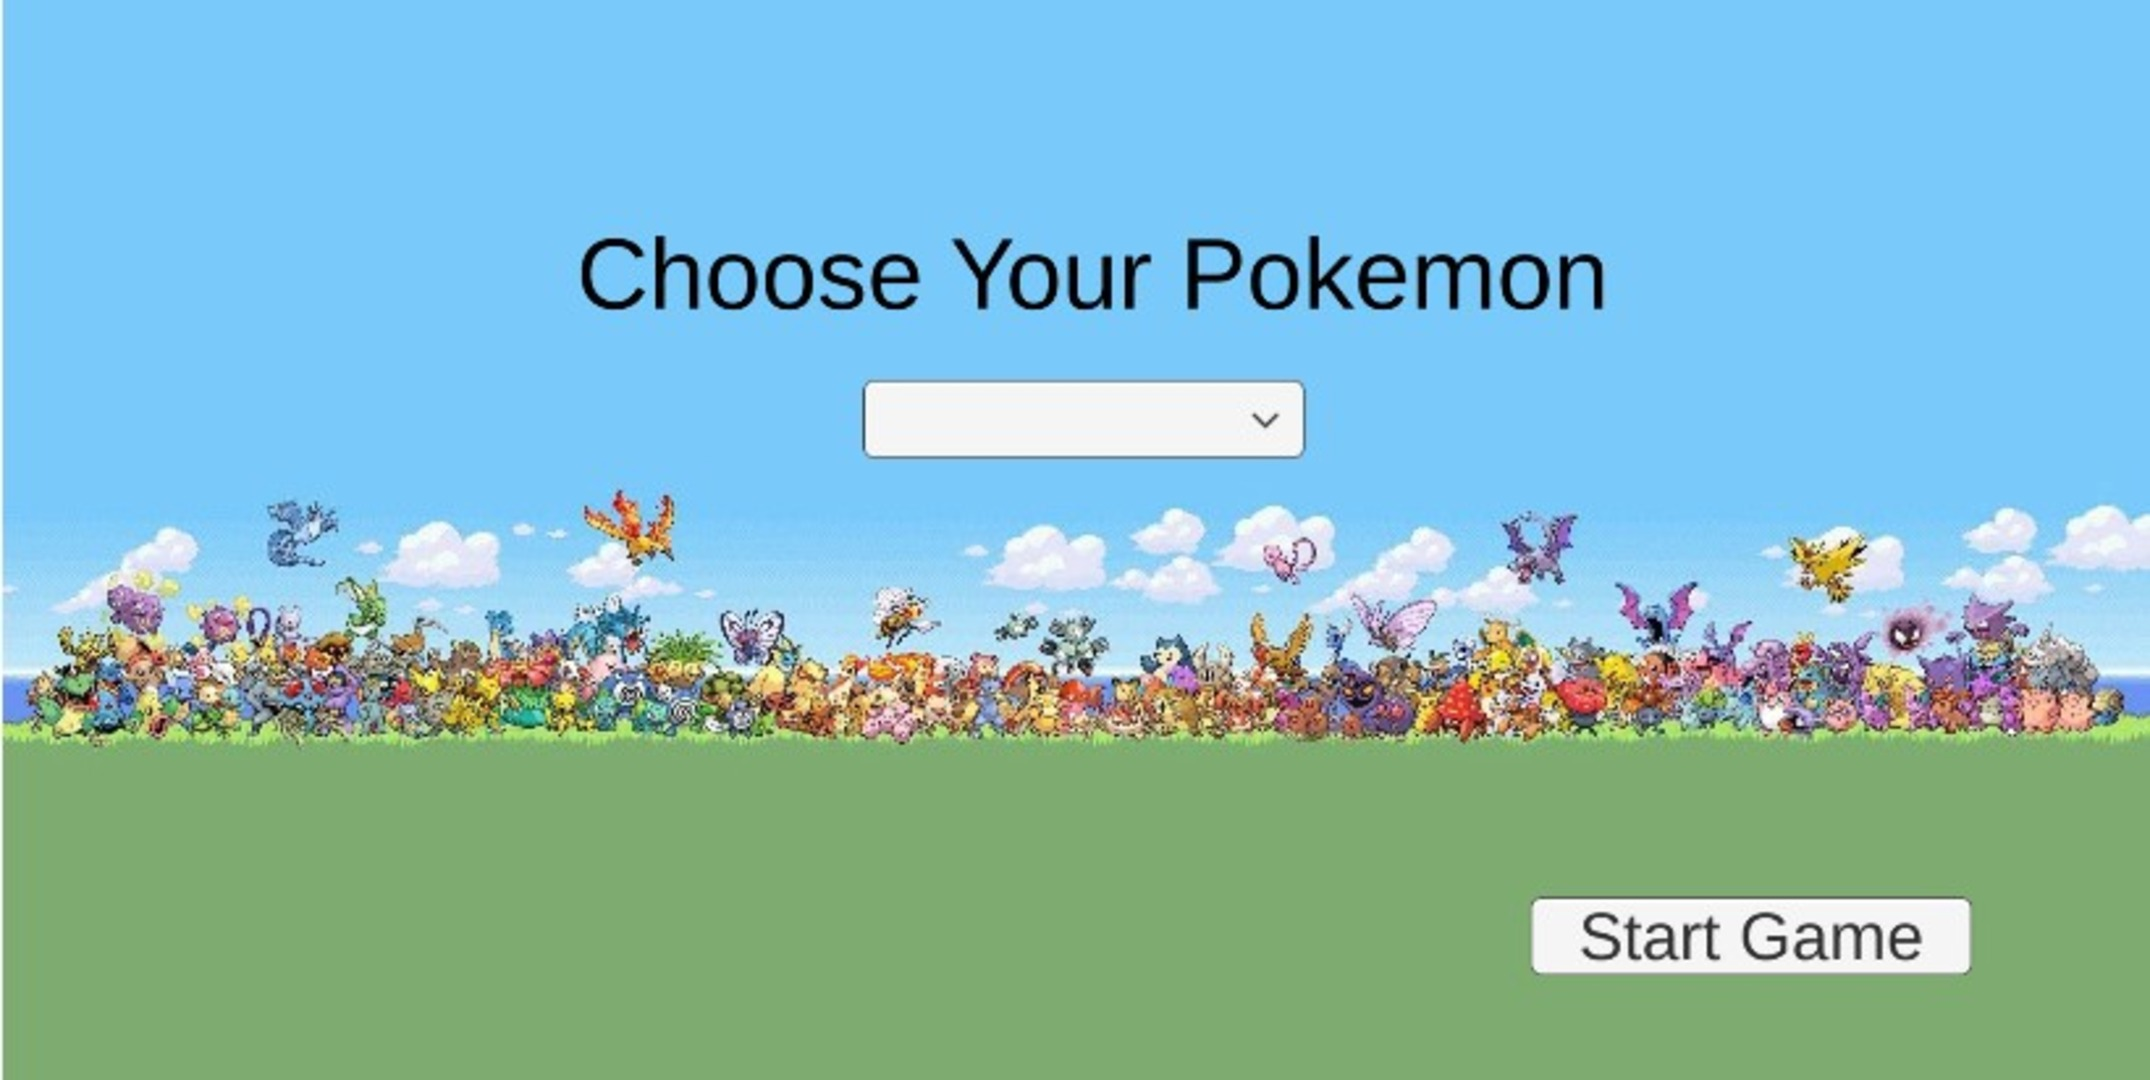
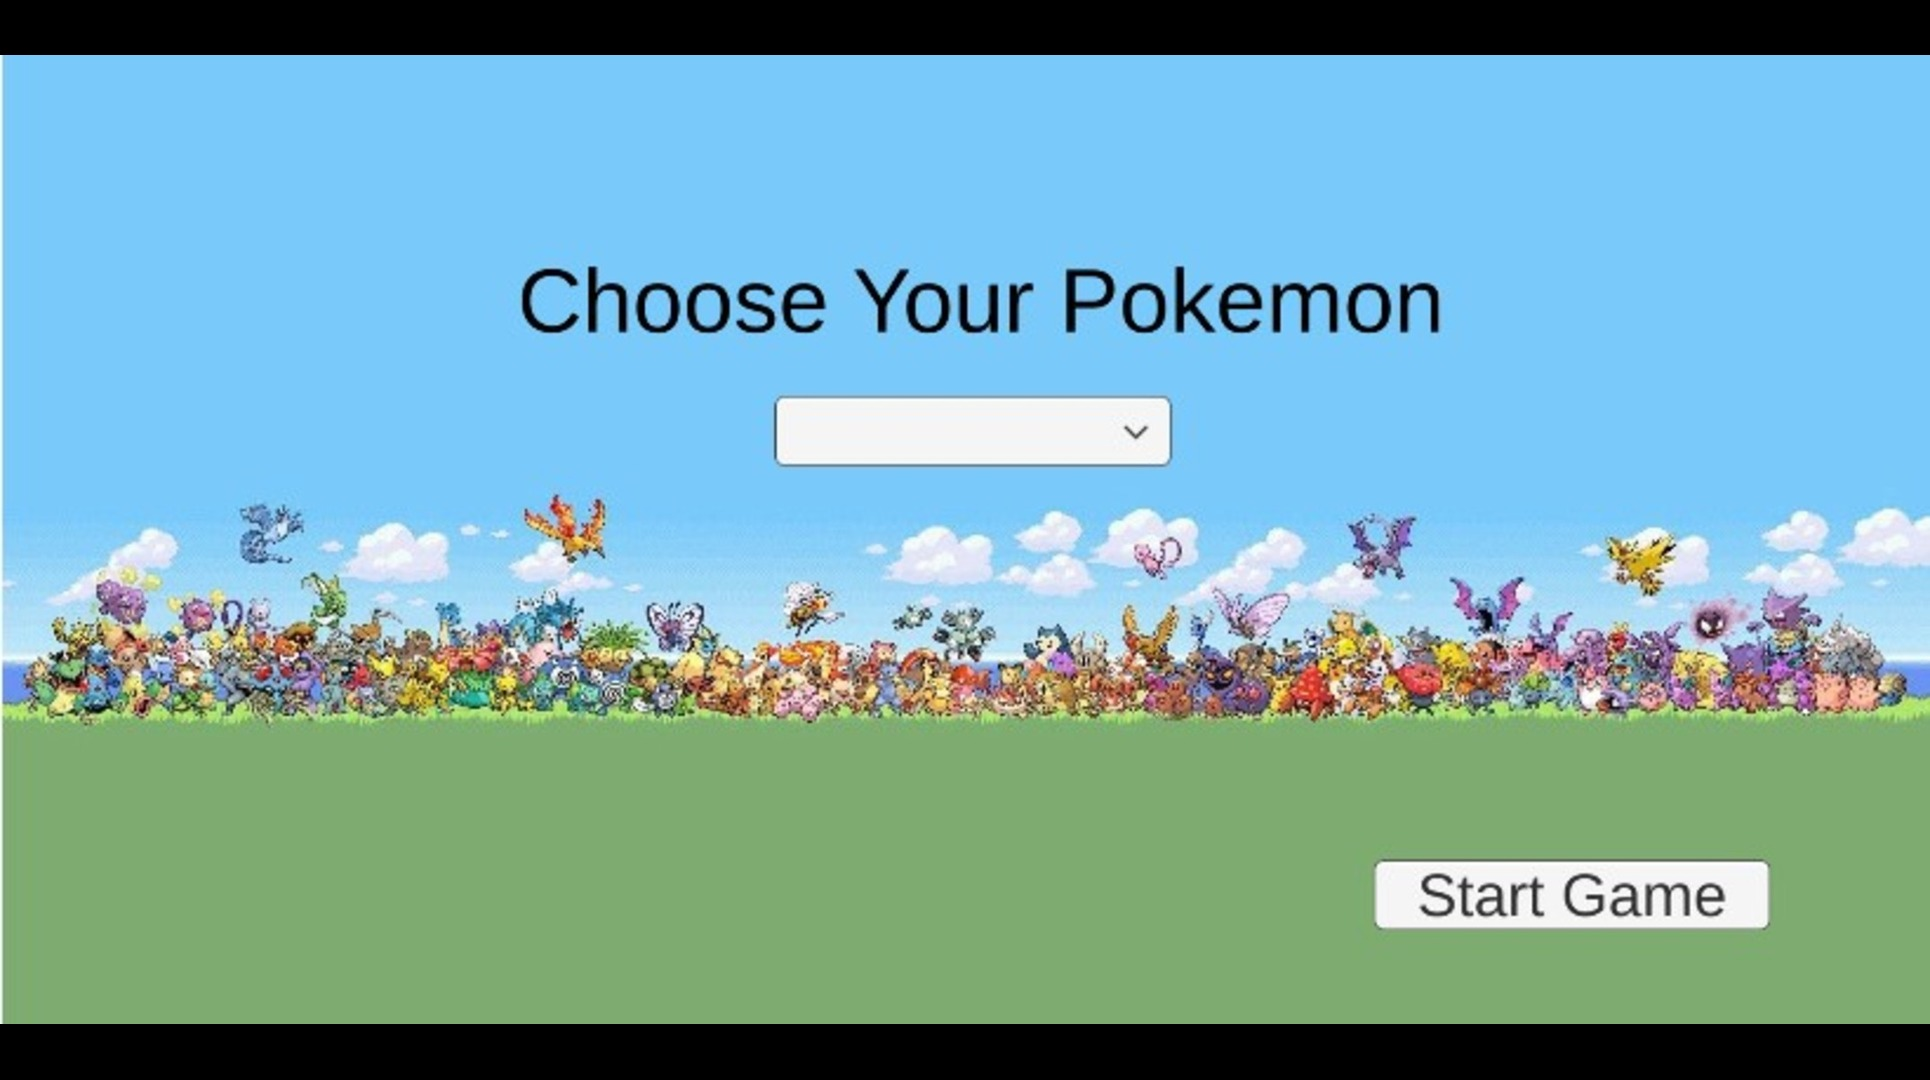
Fixed Pokemon img being too small. Also moved centre img to the left

diff --git a/stylesheet.css b/stylesheet.css
@@ -45,7 +45,9 @@ body
     width: 50%;
     height: auto;
     z-index: 1;
-    padding-left: 3%;
+    
+    /*padding-left: 3%;*/
+
 }
 
 #LeftImg
